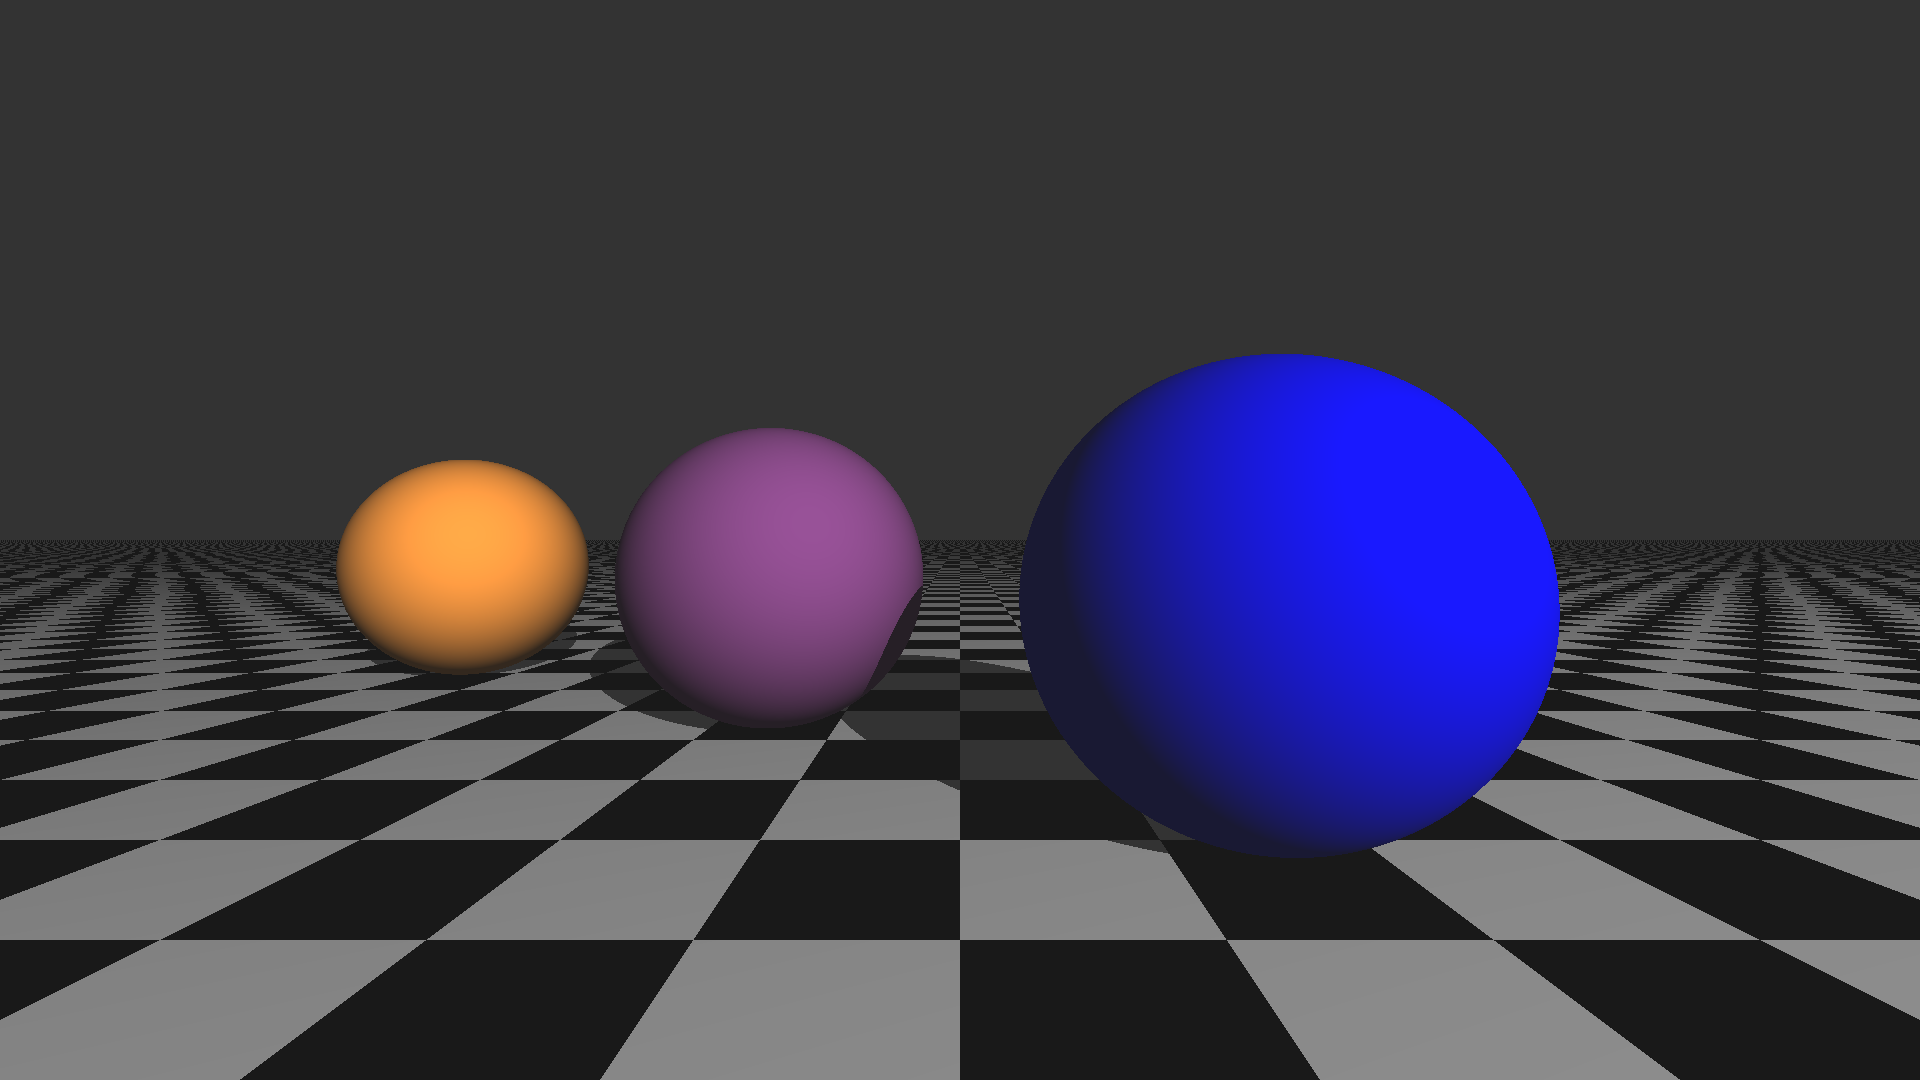
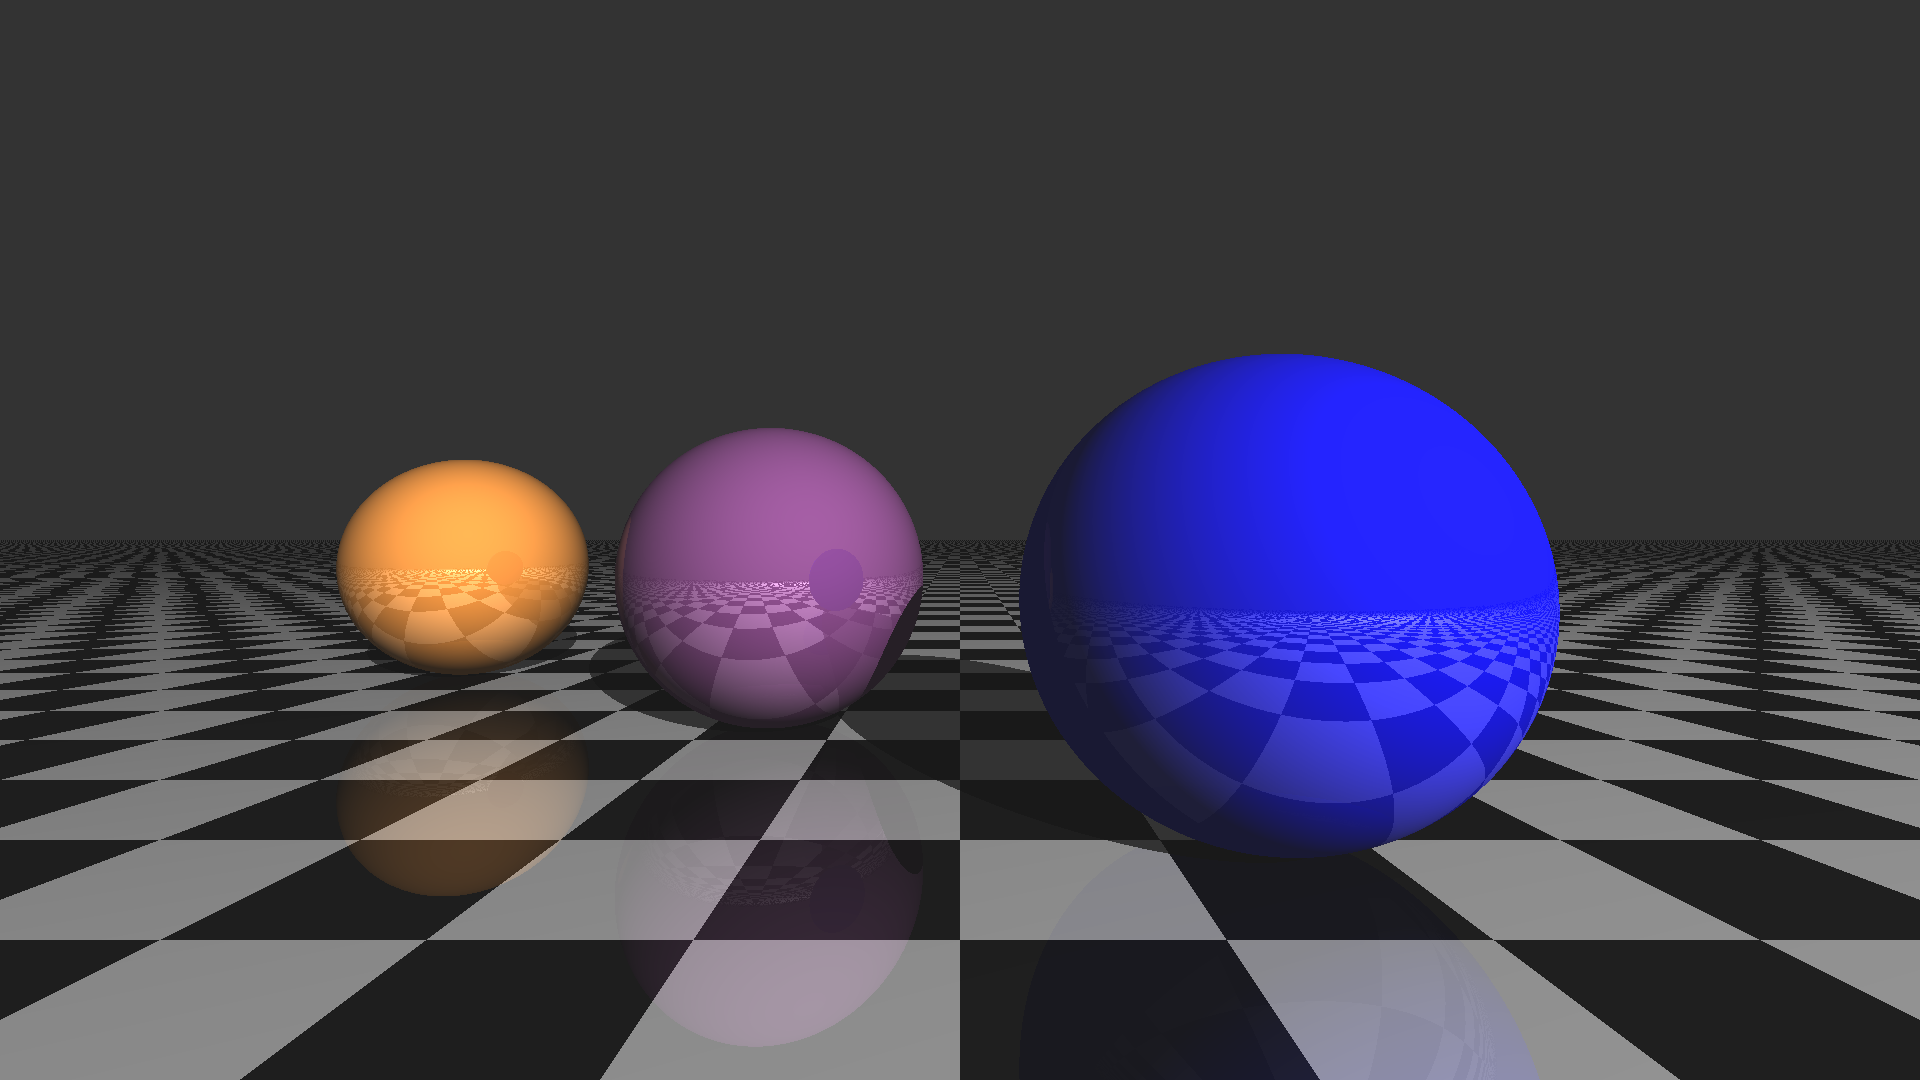
Implemented reflections on objects. Now you can see objects in each other.

diff --git a/Ray Tracing.py b/Ray Tracing.py
@@ -14,10 +14,10 @@ color_plane_1 = 1.0 * np.ones(3)
 
 def get_new_plane(point, normal_vector):
 	return dict(type="plane", point=np.array(point), normal=np.array(normal_vector),
-		color=lambda m: (color_plane_0
-			if ((int((m[0] + 0.5 if m[0] > 0 else m[0]) * 2) % 2) == (int(((m[2] + 0.5 if m[2] > 0 else m[2]) * 2) % 2)))
+			color=lambda m: (
+				color_plane_0 if (int((m[0] if m[0] > 0 else m[0] - 0.5) * 2) % 2)
+				== (int((m[2] if m[2] > 0 else m[2] - 0.5) * 2) % 2)
 				else color_plane_1))
-
 
 def normalize(v):
 	norm = np.linalg.norm(v)
@@ -43,7 +43,6 @@ background_color = 0.1 * np.ones(3)
 ambient = 0.1 * np.ones(3)
 
 light_position = np.array([5.0, 5.0, -10.0])
-# light_position = np.array([5, 0.0, 4.0])
 light_color = np.ones(3)
 
 # x0, y0, x1, y1
@@ -140,7 +139,10 @@ def get_light_amount(obj_index, point):
 	return np.real(np.clip(angle * np.ones(3), 0.1, 1))
 
 
-def trace_ray(ray_o, ray_d):
+def trace_ray(depth, ray_o, ray_d):
+
+	if depth < 0:
+		return np.zeros(3)
 
 	obj_index, distance = get_closest_object_properties(ray_o, ray_d)
 	if obj_index == -1:
@@ -154,6 +156,11 @@ def trace_ray(ray_o, ray_d):
 
 	if is_shadowed(intersect_point):
 		return color * 0.1
+
+	reflection_ray_vector = np.real(ray_d - 2 * np.dot(ray_d, object_normal_vector) * object_normal_vector)
+	reflection_ray_color = trace_ray(depth - 1, intersect_point, reflection_ray_vector)
+
+	color = color + reflection_ray_color * 0.5
 
 	return np.multiply(color, get_light_amount(obj_index, intersect_point))
 
@@ -170,7 +177,7 @@ def main():
 			ray_o = camera_position
 			ray_d = normalize(camera_direction - camera_position)
 
-			trace_answer = trace_ray(ray_o, ray_d)
+			trace_answer = trace_ray(3, ray_o, ray_d)
 			trace_answer = trace_answer + ambient
 
 			image[j, i, :] = np.clip(trace_answer, 0, 1)
